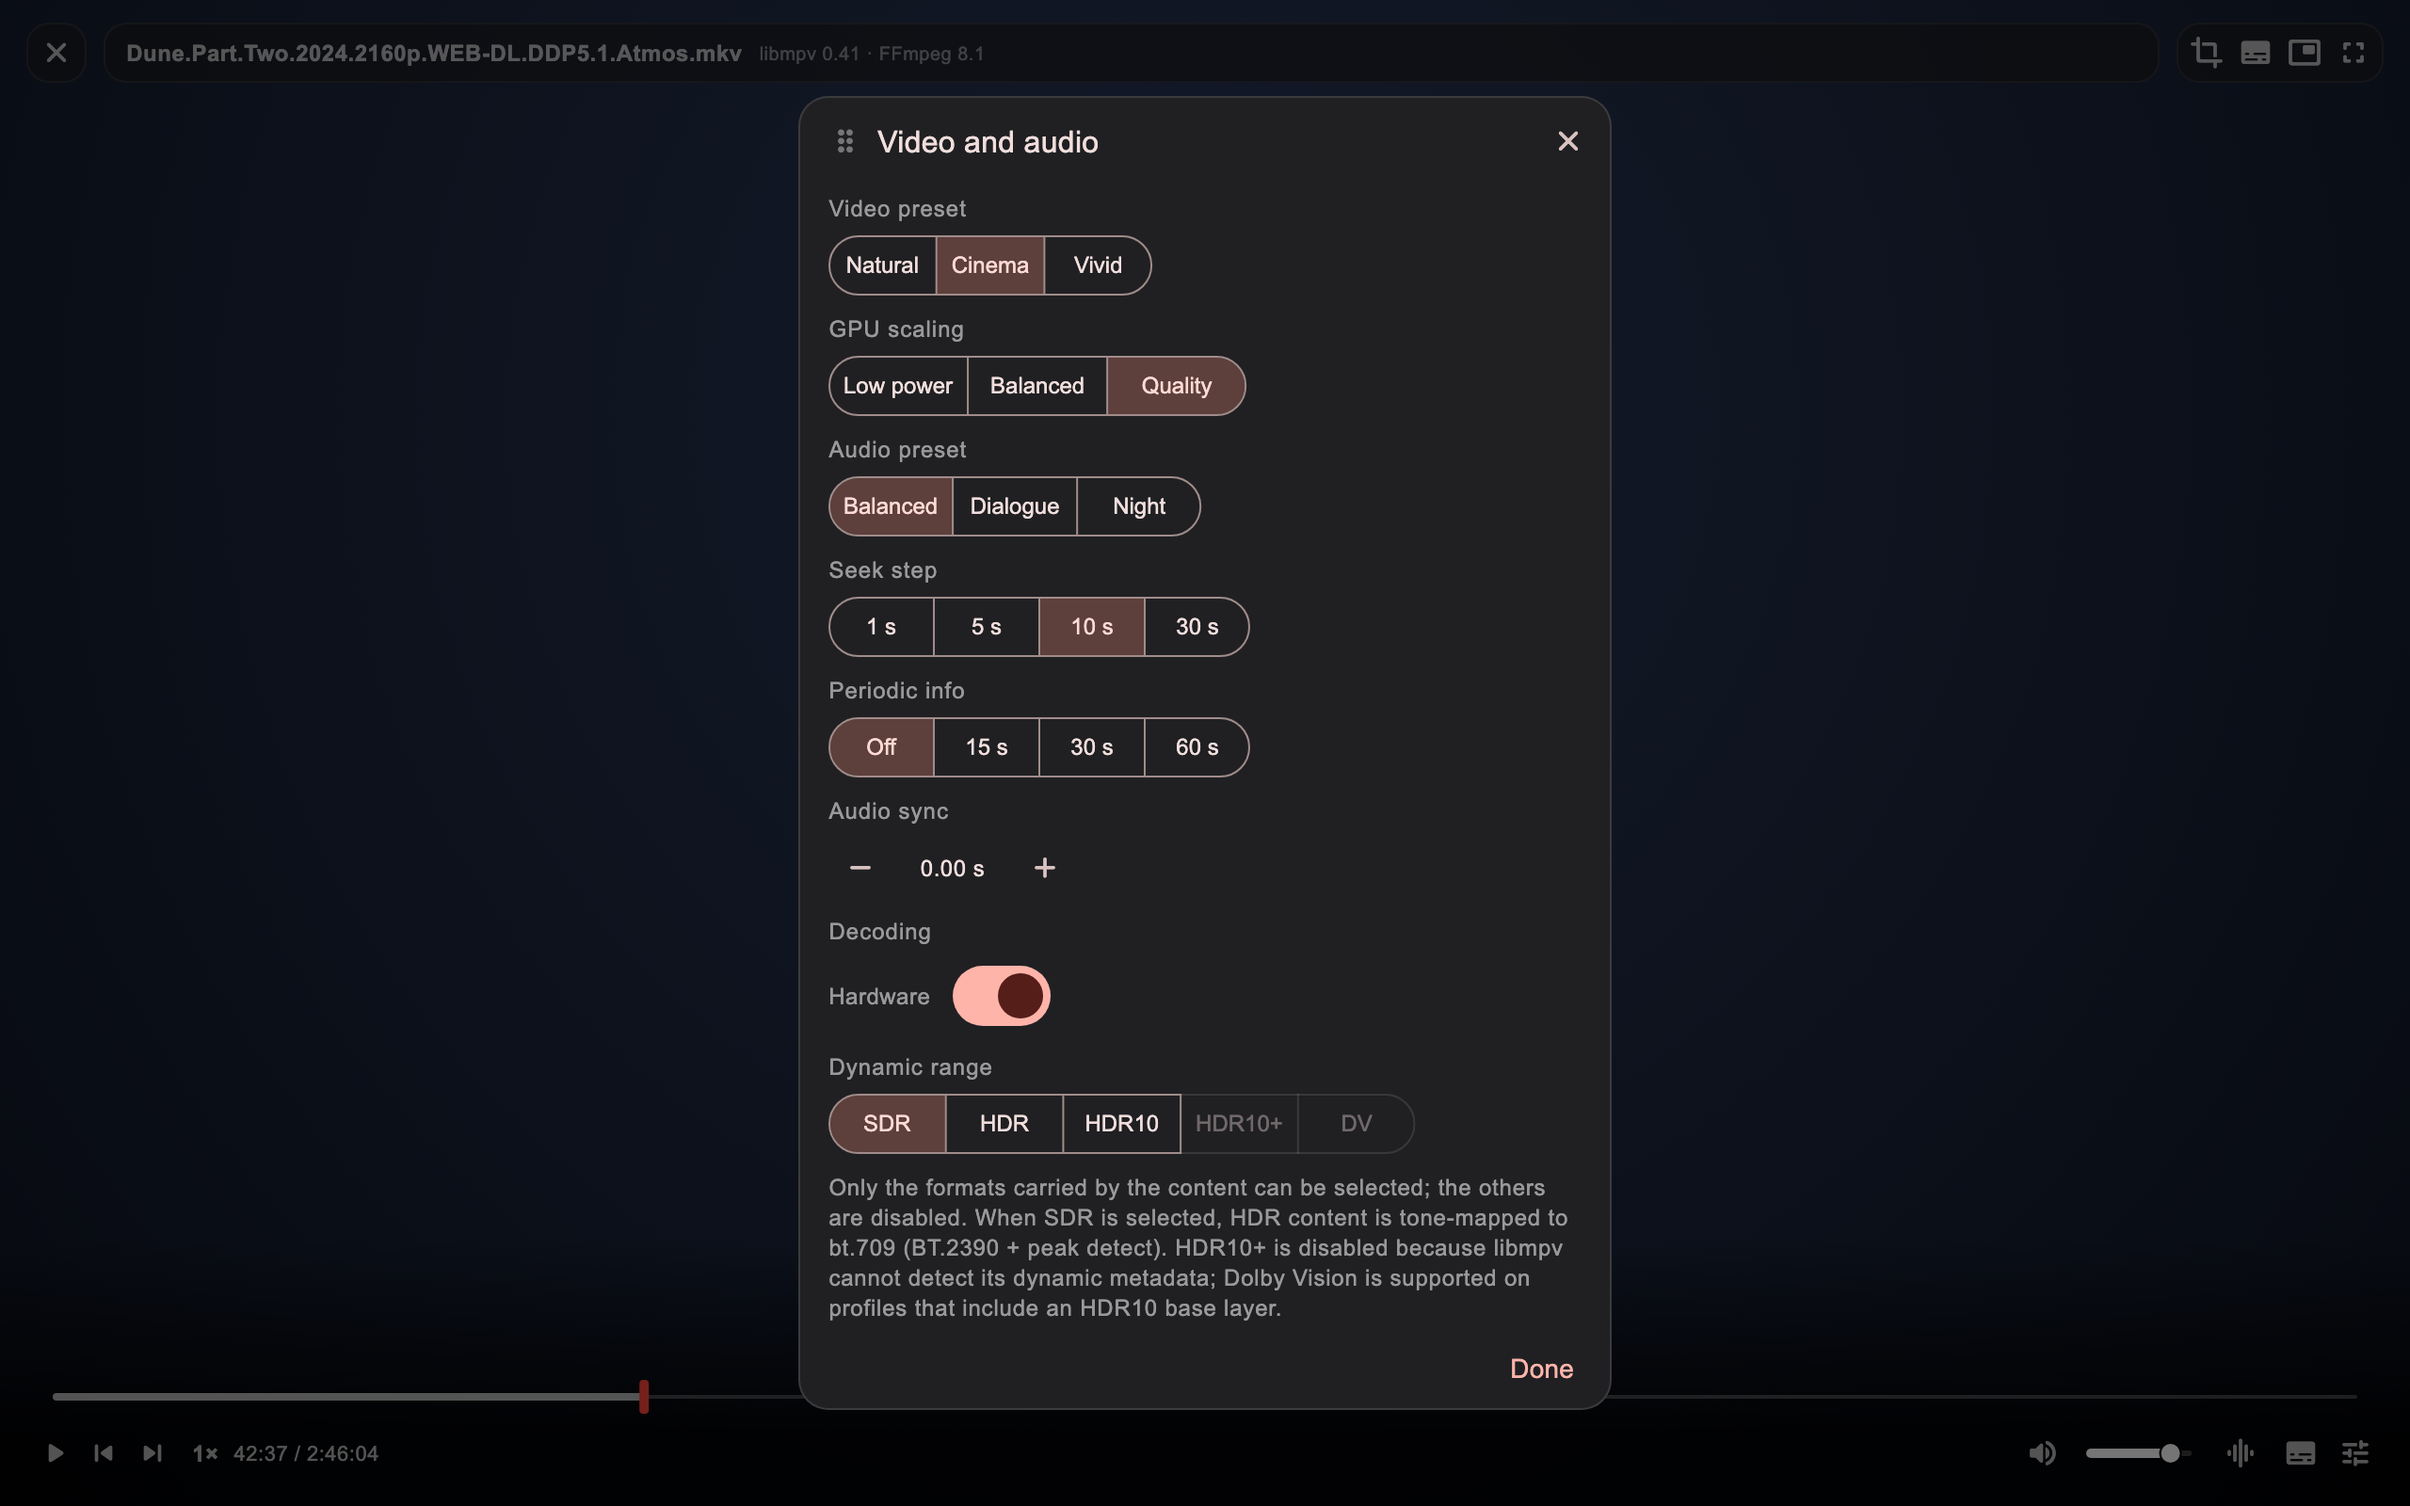
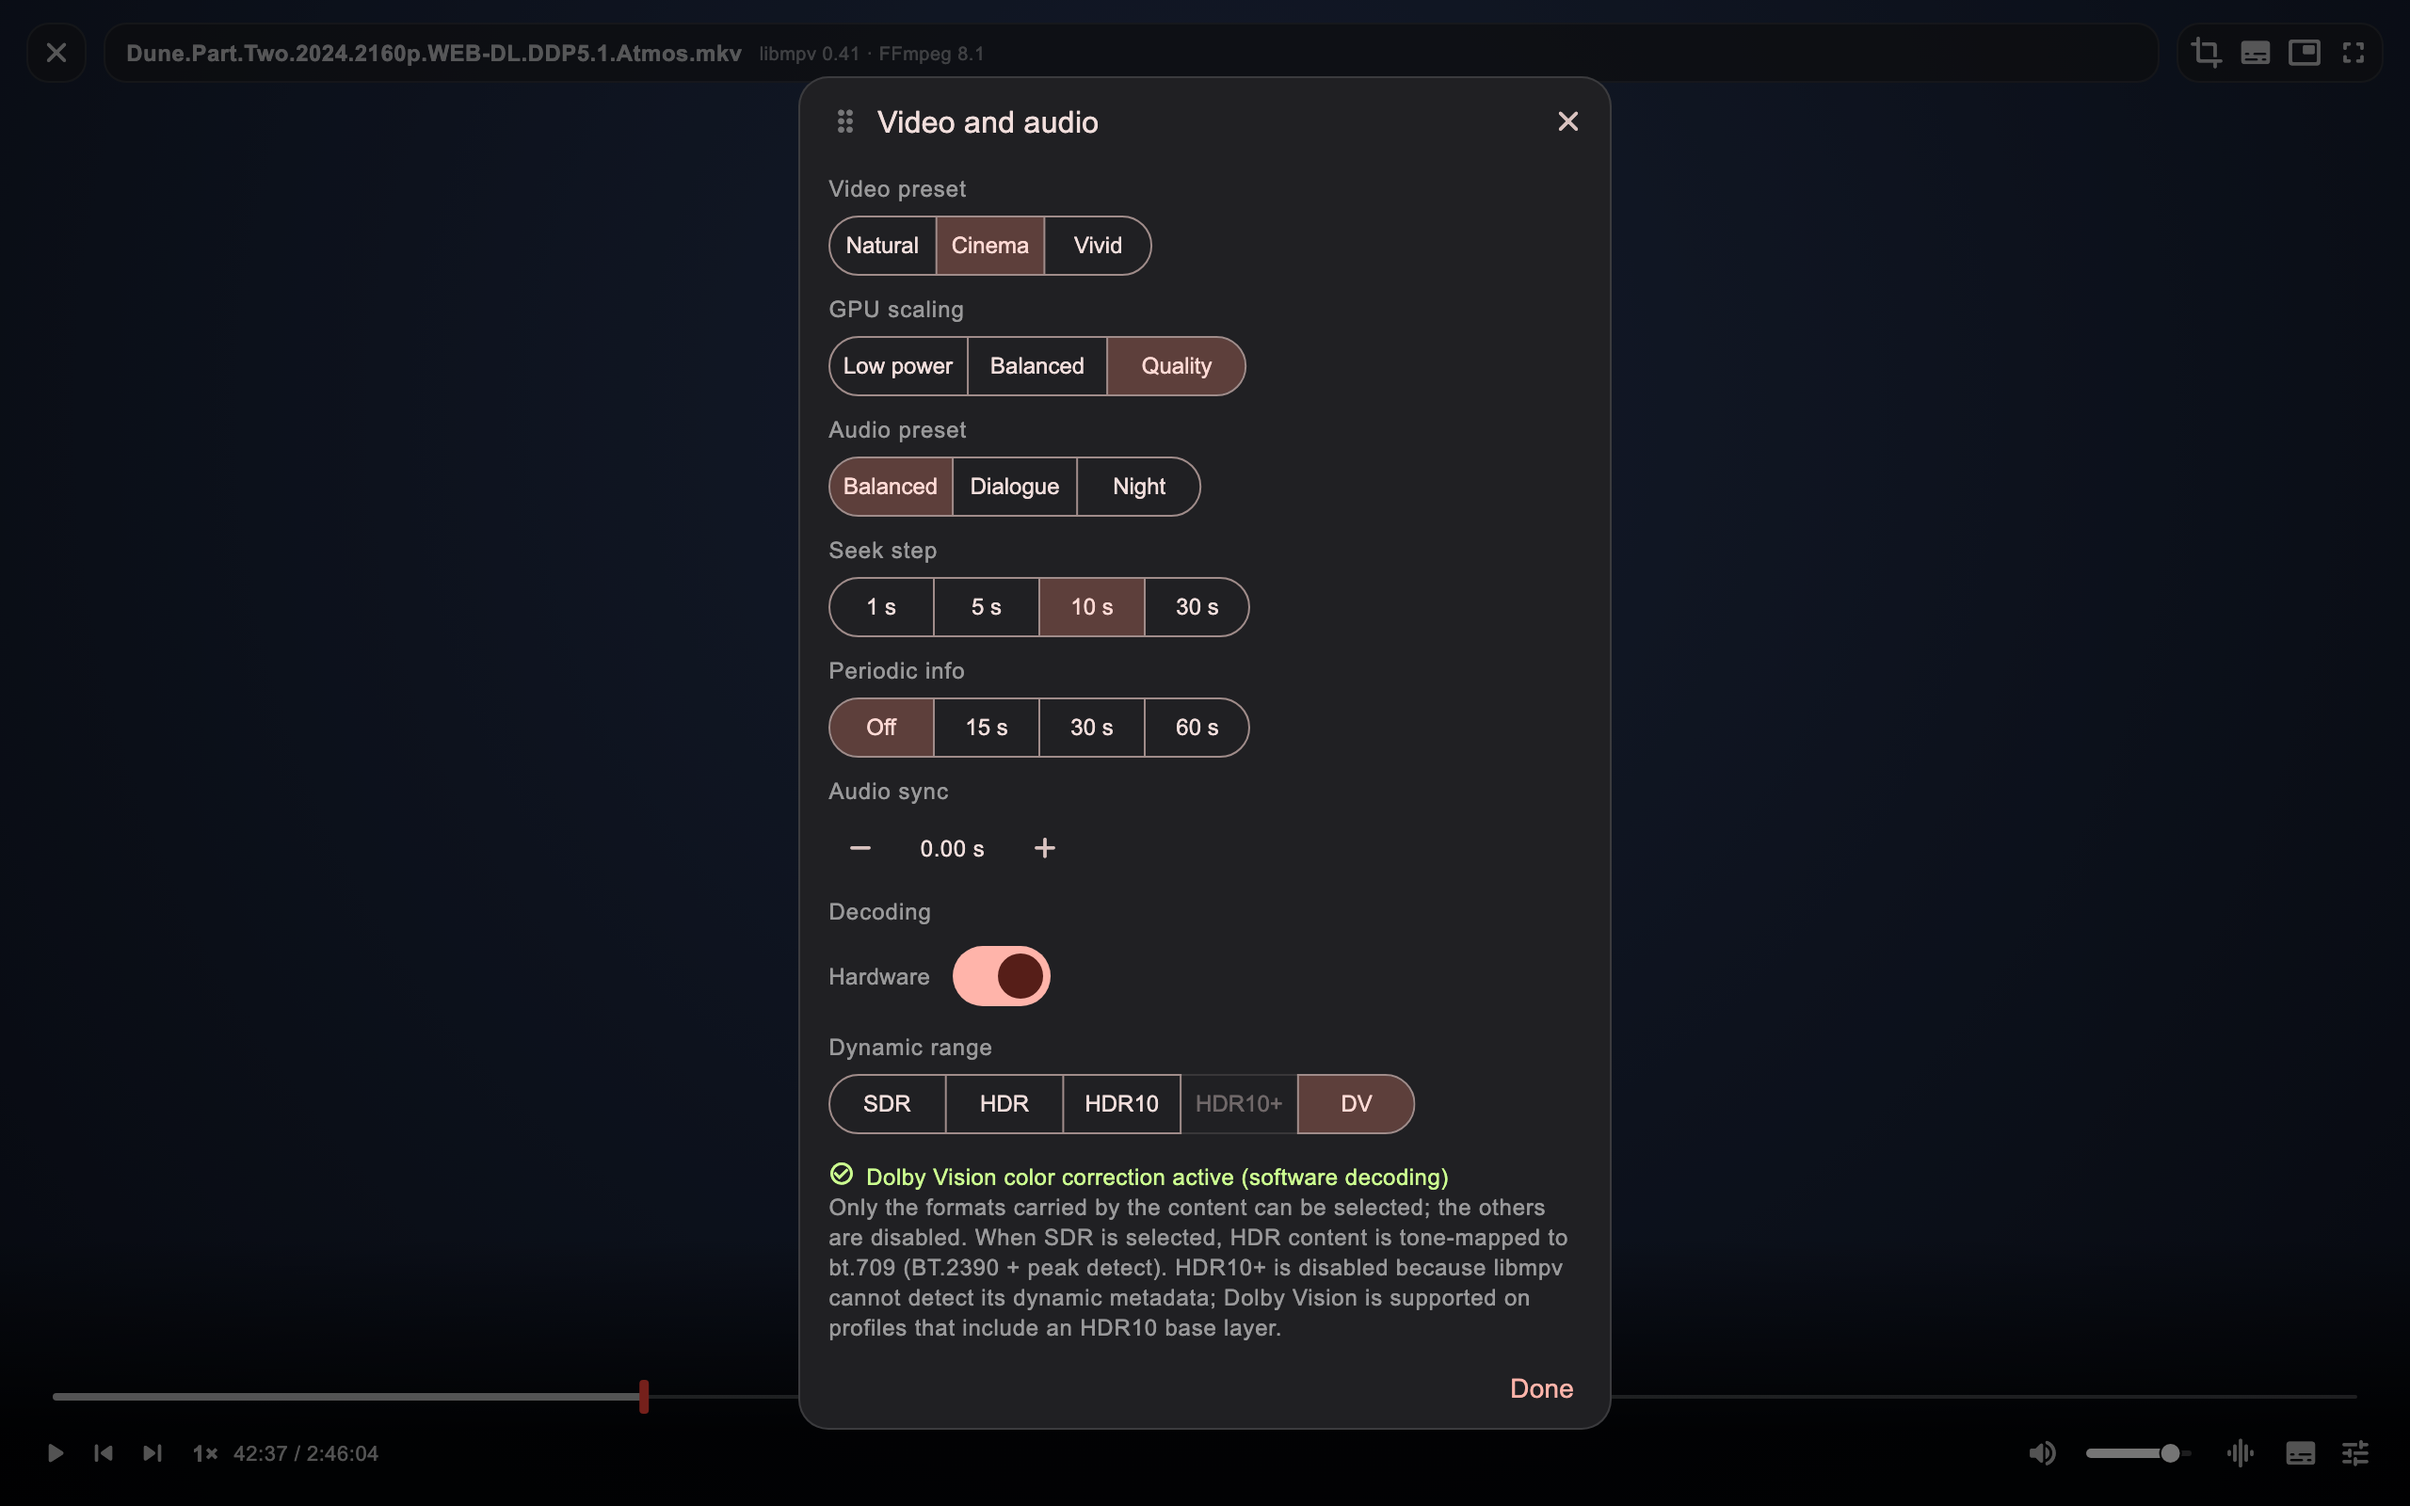
docs: website ve README v1.2 senkronu
- Sürüm v1.2; yeni 'Dolby Vision P5, everywhere' ve 'Diagnostics that
  tell the truth' özellik kartları; roadmap'e Android DV P5 maddesi.
- advanced_settings görseli v1.2'nin canlı DV durum satırıyla
  (etkin, yazılım çözme) yenilendi.
- README DV satırı Android özel motoru ve tanılama satırını anlatıyor.

Changed region(s): [[0.3438, 0.0625, 0.6562, 0.9062], [0.3438, 0.9062, 0.6562, 0.9688], [0.625, 0.0625, 0.6562, 0.0938]]

diff --git a/docs/index.html b/docs/index.html
@@ -380,7 +380,7 @@ const icon = (path) => `<svg viewBox="0 0 24 24">${path}</svg>`;
 createApp({
   data() {
     return {
-      version: 'v1.1',
+      version: 'v1.2',
       repoUrl: 'https://github.com/envermeister/zanzibarr',
       features: [
         {
@@ -409,9 +409,14 @@ createApp({
           icon: icon('<path d="M12 3l8 4v5c0 5-3.5 8-8 9-4.5-1-8-4-8-9V7z"/><path d="M9 12l2 2 4-4"/>'),
         },
         {
-          title: 'HDR & Dolby Vision, honest',
-          body: 'SDR · HDR · HDR10 · DV selector adapts to the file. Profile 5 reshaped on the GPU via libplacebo; BT.2390 tone mapping for clean SDR.',
+          title: 'Dolby Vision P5, everywhere',
+          body: 'macOS reshapes via Vulkan → Metal; Android ships a custom mpv 0.41 + FFmpeg 8.1.2 + libplacebo build — an 8-bit reshape path that survives drivers lacking 16-bit linear sampling (Xclipse) as well as Adreno. Verified on Galaxy S23 FE & Poco F6.',
           icon: icon('<circle cx="12" cy="12" r="4"/><path d="M12 2v3M12 19v3M2 12h3M19 12h3M4.9 4.9l2.1 2.1M17 17l2.1 2.1M19.1 4.9L17 7M7 17l-2.1 2.1"/>'),
+        },
+        {
+          title: 'Diagnostics that tell the truth',
+          body: 'The dynamic-range row reports live engine status — applying, active, or unavailable — with a tap-to-open technical detail panel. If a device can\'t run the correction, the app says so instead of failing silently.',
+          icon: icon('<path d="M12 8v5M12 16.5v.5"/><circle cx="12" cy="12" r="9"/>'),
         },
         {
           title: 'Smart Canvas',
@@ -483,6 +488,7 @@ createApp({
         { text: 'Streaming playback with true seek (STORE releases)', done: true },
         { text: 'Multi-volume RAR5 & split 7z (STORE, AES-256) as virtual files', done: true },
         { text: 'HDR / HDR10 / Dolby Vision — incl. Profile 5 GPU reshape', done: true },
+        { text: 'Dolby Vision P5 on Android — custom Vulkan-linked engine, 8-bit reshape path', done: true },
         { text: 'Android TV, 14 languages, dark & light themes', done: true },
         { text: 'Newznab indexer search — browse & play inside the app', done: true },
         { text: 'Compressed 7z (LZMA/LZMA2, solid) & RAR4 STORE stream-seek', done: true },

diff --git a/test/screenshots_test.dart b/test/screenshots_test.dart
@@ -561,8 +561,34 @@ class _TuningDialogReplica extends StatelessWidget {
                 label: l10n.dynamicRangeLabel,
                 child: segments(
                   const ['SDR', 'HDR', 'HDR10', 'HDR10+', 'DV'],
-                  'SDR',
-                  const {'HDR10+', 'DV'},
+                  'DV',
+                  const {'HDR10+'},
+                ),
+              ),
+              // v1.2'deki gerçek durum satırının birebir görünümü
+              // (player_screen._dvReshapeStatusRow, etkin-yazılım sunumu).
+              Padding(
+                padding: const EdgeInsets.only(top: 4),
+                child: Row(
+                  mainAxisSize: MainAxisSize.min,
+                  crossAxisAlignment: CrossAxisAlignment.start,
+                  children: [
+                    Icon(
+                      Icons.check_circle_outline,
+                      size: 14,
+                      color: Colors.lightGreenAccent.shade100,
+                    ),
+                    const SizedBox(width: 6),
+                    Flexible(
+                      child: Text(
+                        l10n.dvReshapeActiveSw,
+                        style: TextStyle(
+                          color: Colors.lightGreenAccent.shade100,
+                          fontSize: 12,
+                        ),
+                      ),
+                    ),
+                  ],
                 ),
               ),
               Text(

diff --git a/README.md b/README.md
@@ -63,7 +63,7 @@ Missing or corrupt Usenet segments no longer kill the movie: hit **Repair with P
 
 **A picture pipeline that respects your content**
 - Dynamic range selector that adapts to the file: **SDR · HDR · HDR10 · Dolby Vision** — modes the content doesn't carry stay visibly disabled, so you always know exactly what you're watching.
-- Dolby Vision handled honestly: **Profile 5** is reshaped on the GPU via libplacebo (Vulkan → Metal), HDR10-based profiles ride the natural decoder path — no pink-and-green fakeouts.
+- Dolby Vision handled honestly: **Profile 5** is reshaped on the GPU via libplacebo — on macOS via Vulkan → Metal, on Android via a custom mpv 0.41 + FFmpeg 8.1.2 + libplacebo build with an 8-bit reshape path that survives drivers lacking 16-bit linear sampling (Samsung Xclipse) as well as Adreno. HDR10-based profiles ride the natural decoder path — no pink-and-green fakeouts, and the player shows live engine status when a device can't run the correction.
 - BT.2390 tone mapping with per-frame peak detection for clean SDR conversion.
 - Custom libmpv 0.41 + full FFmpeg 8.1 build: **TrueHD / Atmos, DTS-HD MA**, AV1 and everything else your releases actually use.
 - Video presets (Natural / Cinema / Vivid), GPU scaling quality, and audio presets (Balanced / Dialogue / Night) — one tap, no filter graphs.
